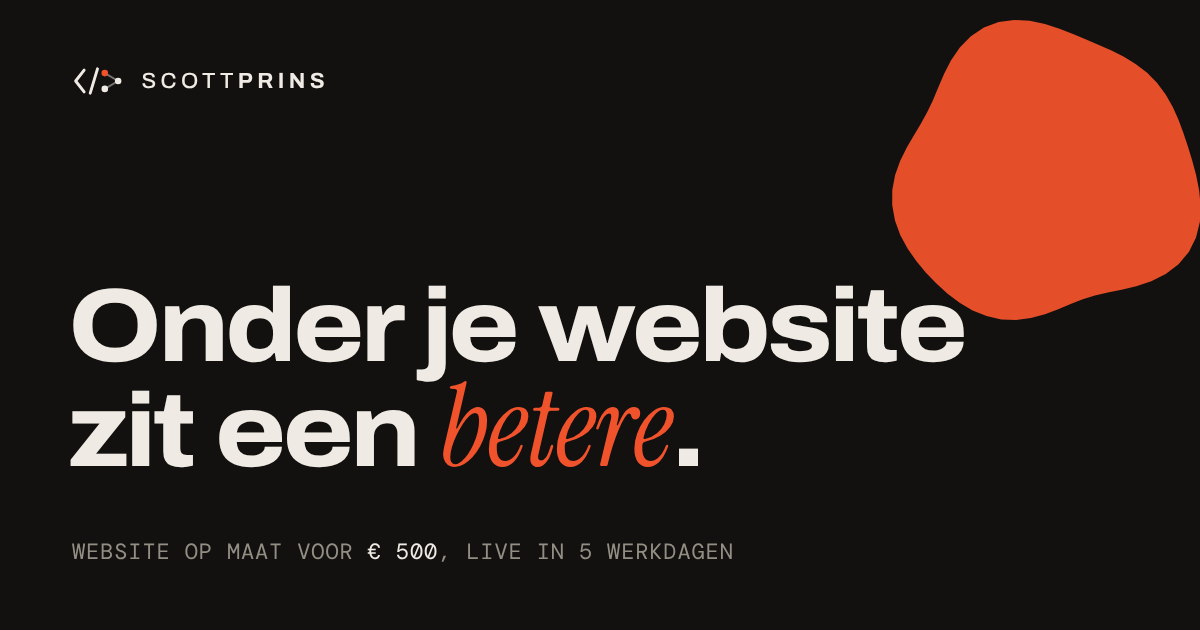
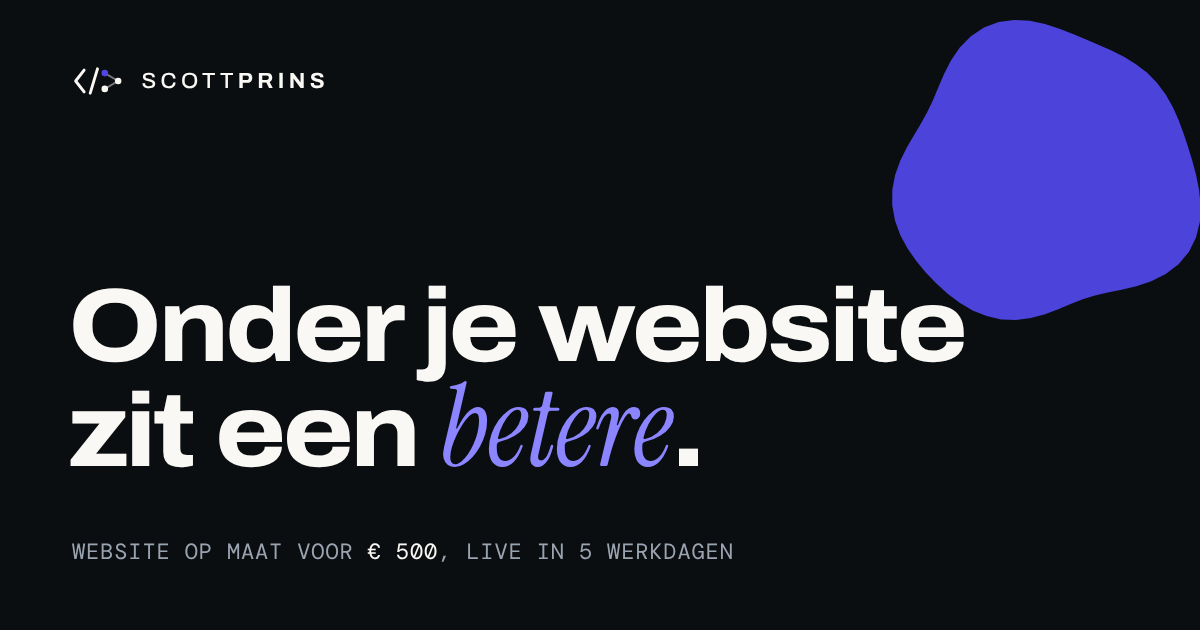
Indigo-huisstijl, grotere lens en feedback verwerkt
Kleuren
- Terug naar Scotts eigen inkt, crème en indigo (#4f46e5). Het indigo
  is het vlak van de knoppen (witte tekst); voor tekst, iconen en lijnen
  op donker een lichtere variant (#8b85ff) zodat alles AA-contrast haalt.
- Favicon (SP met indigo stip), theme-color en de deelafbeelding mee.
- De ouderwetse link in de kop-intro is nu hemelsblauw, zodat hij
  duidelijk verschilt van het nieuwe accent.

Feedback
- Lens in het upgrade-ding ruim 40% groter: je ziet meer van de nieuwe site.
- Geen € 50 per werkdag meer van de eindfactuur: weg uit werkwijze, FAQ
  en voorwaarden. Lukt de termijn onverhoopt niet, dan hoor je dat meteen,
  met een nieuwe datum.
- Overal 'excl. 21% btw', en bij de prijs ook het bedrag inclusief btw en
  'Alleen voor bedrijven'. Het tarief staat in offer.ts.

Fix
- Ankerlinks landden soms honderden pixels naast het doel: Lenis kon na
  native scrollen een oude positie onthouden. Het doel wordt nu vanaf de
  echte scrollpositie berekend en Lenis eerst gelijkgezet.

Gecontroleerd: astro check, 16 unittests, 20 pagina's op 5 breedtes
zonder fouten of overflow, axe zonder bevindingen, 51 interactietests
(3x op productie, 1x op de preview).

Claude-Session: https://claude.ai/code/session_01LvnRPykPphZFHqr8Md5cFC

diff --git a/src/data/content/nl.ts b/src/data/content/nl.ts
@@ -15,7 +15,8 @@ const PRIJS = eur(offer.price, 'nl');
 const DAGEN = offer.deliveryDays;
 const UUR = offer.responseHours;
 const PLUS = eur(offer.care[0].monthly, 'nl');
-const BOETE = eur(offer.latePenaltyPerDay, 'nl');
+const BTW = `${Math.round(offer.vatRate * 100)}% btw`;
+const PRIJS_INCL = eur(Math.round(offer.price * (1 + offer.vatRate)), 'nl');
 
 const meta = {
   title: `Website laten maken voor ${PRIJS} | Scott Prins`,
@@ -317,7 +318,7 @@ const price = {
     'Omdat ik niet elke site vanaf nul bouw. Ik werk met een eigen systeem van ontwerpen en animaties, en dat maak ik per klant op maat.',
     'En ik werk met moderne AI-tooling. Wat níet door AI gebeurt: nadenken over jouw zaak, keuzes maken en kwaliteit bewaken. Dat doe ik.',
   ],
-  terms: 'Prijs exclusief btw. De helft bij de start, de helft bij oplevering.',
+  terms: `Prijs exclusief ${BTW} (${PRIJS_INCL} inclusief). Alleen voor bedrijven. De helft bij de start, de helft bij oplevering.`,
   care: `Geen abonnement nodig. Wil je dat ik je site bijhoud? Dat kan vanaf ${PLUS} per maand, maandelijks opzegbaar.`,
   cta: `Claim je site voor ${PRIJS}`,
 } as const;
@@ -352,7 +353,7 @@ const process = {
       text: 'Je site staat online en je domein is gekoppeld. Pas dan betaal je de tweede helft.',
     },
   ],
-  note: `De ${DAGEN} werkdagen tellen vanaf het moment dat je materiaal binnen is. Sta je dan niet op tijd live, dan gaat er ${BOETE} per werkdag van de eindfactuur af.`,
+  note: `De ${DAGEN} werkdagen tellen vanaf het moment dat je materiaal binnen is: je teksten (of ons gesprek), foto’s en logo.`,
 } as const;
 
 const about = {
@@ -410,10 +411,6 @@ const faq = {
       a: `Binnen ${DAGEN} werkdagen, gerekend vanaf het moment dat jouw teksten (of ons gesprek), foto’s en logo binnen zijn.`,
     },
     {
-      q: `Wat als de site niet af is binnen ${DAGEN} werkdagen?`,
-      a: `Dan kost het mij geld, niet jou. De klok start zodra jouw materiaal binnen is. Sta je daarna niet binnen ${DAGEN} werkdagen live, dan gaat er ${BOETE} per werkdag van de eindfactuur af.`,
-    },
-    {
       q: 'Wat als ik het niet mooi vind?',
       a: `Daarom begin je met een gratis proefpagina. Bevalt die niet, dan stopt het daar en betaal je niets. Ga je door, dan heb je nog ${offer.revisionRounds} rondes om bij te sturen voordat de site live gaat.`,
     },
@@ -458,7 +455,7 @@ const order = {
     free: 'gratis',
     totalLabel: 'Nu te betalen',
     totalNote: 'Je betaalt pas na akkoord op je proefpagina.',
-    exVat: 'excl. btw',
+    exVat: `excl. ${BTW}`,
   },
   fields: {
     name: 'Je naam',

diff --git a/src/data/content/en.ts b/src/data/content/en.ts
@@ -19,7 +19,8 @@ const PRICE = eur(offer.price, 'en');
 const DAYS = offer.deliveryDays;
 const HOURS = offer.responseHours;
 const PLUS = eur(offer.care[0].monthly, 'en');
-const PENALTY = eur(offer.latePenaltyPerDay, 'en');
+const VAT = `${Math.round(offer.vatRate * 100)}% VAT`;
+const PRICE_INCL = eur(Math.round(offer.price * (1 + offer.vatRate)), 'en');
 
 const meta = {
   title: `A website for ${PRICE}, all in | Scott Prins`,
@@ -321,7 +322,7 @@ const price = {
     'Because I don’t build every site from scratch. I work with my own system of designs and animations, and tailor it to each client.',
     'And I work with modern AI tooling. What AI does not do: think about your business, make the calls and guard the quality. That’s me.',
   ],
-  terms: 'Price excludes VAT. Half at the start, half on delivery.',
+  terms: `Price excludes ${VAT} (${PRICE_INCL} including VAT). For businesses only. Half at the start, half on delivery.`,
   care: `No subscription needed. Want me to look after your site? From ${PLUS} a month, cancel any month.`,
   cta: `Claim your site for ${PRICE}`,
 };
@@ -356,7 +357,7 @@ const process = {
       text: 'Your site is online and your domain is connected. Only then do you pay the second half.',
     },
   ],
-  note: `The ${DAYS} working days count from the moment your material is in. Not live on time? Then ${PENALTY} per working day comes off the final invoice.`,
+  note: `The ${DAYS} working days count from the moment your material is in: your copy (or our call), photos and logo.`,
 };
 
 const about = {
@@ -414,10 +415,6 @@ const faq = {
       a: `Within ${DAYS} working days, counted from the moment your copy (or our call), photos and logo are in.`,
     },
     {
-      q: `What if the site isn’t finished within ${DAYS} working days?`,
-      a: `Then it costs me money, not you. The clock starts as soon as your material is in. If you’re not live within ${DAYS} working days after that, ${PENALTY} per working day comes off the final invoice.`,
-    },
-    {
       q: 'What if I don’t like it?',
       a: `That’s why you start with a free sample page. If you don’t like it, it ends there and you pay nothing. If you go ahead, you still have ${offer.revisionRounds} rounds to steer before the site goes live.`,
     },
@@ -462,7 +459,7 @@ const order = {
     free: 'free',
     totalLabel: 'Due now',
     totalNote: 'You only pay after approving your sample page.',
-    exVat: 'excl. VAT',
+    exVat: `excl. ${VAT}`,
   },
   fields: {
     name: 'Your name',

diff --git a/src/data/content/nl-legal.ts b/src/data/content/nl-legal.ts
@@ -10,7 +10,6 @@ import { eur } from '../../lib/format';
 
 const PRIJS = eur(offer.price, 'nl');
 const DAGEN = offer.deliveryDays;
-const BOETE = eur(offer.latePenaltyPerDay, 'nl');
 const PLUS = eur(offer.care[0].monthly, 'nl');
 const PREMIUM = eur(offer.care[1].monthly, 'nl');
 
@@ -84,7 +83,7 @@ const voorwaarden = {
     {
       title: 'Zo start een opdracht',
       body: [
-        'Mijn aanbod is voor zakelijke klanten: ondernemers, praktijken en verenigingen. Je vraagt via de bestelbon op deze site een gratis proefpagina aan, of we overleggen via mail, telefoon of WhatsApp. Bevalt de proefpagina, dan krijg je een bevestiging met de vaste prijs. Alle prijzen zijn exclusief btw.',
+        'Mijn aanbod is voor zakelijke klanten: ondernemers, praktijken en verenigingen. Je vraagt via de bestelbon op deze site een gratis proefpagina aan, of we overleggen via mail, telefoon of WhatsApp. Bevalt de proefpagina, dan krijg je een bevestiging met de vaste prijs. Alle prijzen zijn exclusief 21% btw.',
         'Die bevestiging is 30 dagen geldig. Zeg je schriftelijk ja (een mailtje of appje telt ook), dan is dat het startschot en gelden deze voorwaarden. Zeg je nee of hoor ik niets, dan betaal je niets, ook niet voor de proefpagina.',
       ],
     },
@@ -92,7 +91,7 @@ const voorwaarden = {
       title: `Wat je krijgt voor ${PRIJS}`,
       body: [
         'Een website op maat op één pagina: een eigen ontwerp met motion, gemaakt voor telefoon en desktop, een nette basis voor Google, teksten op basis van een gesprek, het koppelen van je domein, de livegang en hosting. Wat er precies op komt, staat in de bevestiging.',
-        `Je site staat binnen ${DAGEN} werkdagen live, gerekend vanaf het moment dat al jouw materiaal binnen is (teksten of ons gesprek, foto’s, logo en toegangen). Lukt dat door mij niet, dan gaat er ${BOETE} per werkdag van de eindfactuur af.`,
+        `Je site staat binnen ${DAGEN} werkdagen live, gerekend vanaf het moment dat al jouw materiaal binnen is (teksten of ons gesprek, foto’s, logo en toegangen). Lukt dat onverhoopt niet, dan hoor je dat meteen, met een nieuwe datum.`,
         `Vóór de livegang kijken we samen naar het resultaat. ${offer.revisionRounds} rondes aanpassingen horen bij de prijs. Daarna vallen wijzigingen onder onderhoud of onder meerwerk, en dat hoor je altijd vooraf, met een vaste prijs.`,
       ],
     },

diff --git a/src/data/content/en-legal.ts b/src/data/content/en-legal.ts
@@ -12,7 +12,6 @@ import { eur } from '../../lib/format';
 
 const PRICE = eur(offer.price, 'en');
 const DAYS = offer.deliveryDays;
-const PENALTY = eur(offer.latePenaltyPerDay, 'en');
 const PLUS = eur(offer.care[0].monthly, 'en');
 const PREMIUM = eur(offer.care[1].monthly, 'en');
 
@@ -86,7 +85,7 @@ const voorwaarden = {
     {
       title: 'How a project starts',
       body: [
-        'My offer is for business clients: business owners, practices and associations. You request a free sample page through the order slip on this site, or we talk by email, phone or WhatsApp. If you like the sample page, you get a confirmation with the fixed price. All prices exclude VAT.',
+        'My offer is for business clients: business owners, practices and associations. You request a free sample page through the order slip on this site, or we talk by email, phone or WhatsApp. If you like the sample page, you get a confirmation with the fixed price. All prices exclude 21% VAT.',
         'That confirmation is valid for 30 days. If you say yes in writing (an email or a message counts), that is the starting signal and these terms apply. If you say no or I don’t hear back, you pay nothing, not even for the sample page.',
       ],
     },
@@ -94,7 +93,7 @@ const voorwaarden = {
       title: `What you get for ${PRICE}`,
       body: [
         'A custom website on one page: an original design with motion, made for phone and desktop, a clean foundation for Google, copy based on a conversation, connecting your domain, the launch and hosting. Exactly what goes on it is set out in the confirmation.',
-        `Your site is live within ${DAYS} working days, counted from the moment all your material is in (copy or our call, photos, logo and access). If I don’t make that, ${PENALTY} per working day comes off the final invoice.`,
+        `Your site is live within ${DAYS} working days, counted from the moment all your material is in (copy or our call, photos, logo and access). If that unexpectedly doesn’t work out, you hear about it straight away, with a new date.`,
         `Before launch we look at the result together. ${offer.revisionRounds} rounds of changes are included in the price. After that, changes fall under maintenance or extra work, and you always hear the fixed price up front.`,
       ],
     },

diff --git a/src/styles/global.css b/src/styles/global.css
@@ -60,25 +60,25 @@
   --font-serif: 'Instrument Serif', ui-serif, Georgia, 'Times New Roman', serif;
   --font-mono: 'DM Mono', ui-monospace, SFMono-Regular, Menlo, Consolas, monospace;
 
-  /* Warm, niet puur zwart of wit, met één signaalkleur.
+  /* Scotts huisstijl: inkt, crème en indigo. Niet puur zwart of wit.
      signal      = het vlak van de hoofdknop (met signal-ink als tekst)
      signal-text = accent als tekst, icoon of lijn op donker (AA-contrast)
      Andere accentkleur? Alleen deze vier regels; zie README. */
-  --color-ink: #12110f;
-  --color-ink-2: #1b1a17;
-  --color-ink-3: #282622;
-  --color-bone: #efebe4;
-  --color-bone-2: #cec8bd;
-  --color-mute: #938e84;
-  --color-signal: #f0532c;
-  --color-signal-hi: #ff6b46;
-  --color-signal-text: #ff6b46;
-  --color-signal-ink: #12110f;
-  --color-paper: #f5f1ea;
-  --color-paper-ink: #1d1b18;
-  --color-paper-mute: #6d685f;
-  --color-line: rgb(239 235 228 / 0.12);
-  --color-line-strong: rgb(239 235 228 / 0.26);
+  --color-ink: #0b0e11;
+  --color-ink-2: #161b22;
+  --color-ink-3: #1f2630;
+  --color-bone: #faf8f4;
+  --color-bone-2: #c3c9d2;
+  --color-mute: #9aa3b0;
+  --color-signal: #4f46e5;
+  --color-signal-hi: #4338ca;
+  --color-signal-text: #8b85ff;
+  --color-signal-ink: #ffffff;
+  --color-paper: #faf8f4;
+  --color-paper-ink: #0b0e11;
+  --color-paper-mute: #5c6470;
+  --color-line: rgb(250 248 244 / 0.12);
+  --color-line-strong: rgb(250 248 244 / 0.26);
 
   --ease-out-expo: cubic-bezier(0.16, 1, 0.3, 1);
   --ease-out-quart: cubic-bezier(0.25, 1, 0.5, 1);

diff --git a/src/scripts/motion/core.ts b/src/scripts/motion/core.ts
@@ -38,10 +38,20 @@ export function smoothScroll(): Lenis | null {
 export const getLenis = (): Lenis | null => lenis;
 
 /** Scrolt naar een element, met of zonder Lenis. De ruimte voor de
-    navigatie komt uit scroll-margin-top (global.css); Lenis leest die zelf. */
+    navigatie komt uit scroll-margin-top (global.css).
+    Het doel rekenen we zelf uit vanaf de échte scrollpositie, en Lenis
+    zetten we daar eerst op gelijk: na native scrollen (toetsenbord, zoeken
+    in de pagina) kan Lenis nog een oude positie onthouden hebben, en dan
+    landde de sprong honderden pixels ernaast. */
 export function scrollToEl(el: HTMLElement): void {
-  if (lenis) lenis.scrollTo(el, { duration: 1.25 });
-  else el.scrollIntoView({ behavior: reducedMotion() ? 'auto' : 'smooth', block: 'start' });
+  const margin = Number.parseFloat(getComputedStyle(el).scrollMarginTop) || 0;
+  const y = Math.max(0, el.getBoundingClientRect().top + window.scrollY - margin);
+  if (lenis) {
+    lenis.scrollTo(window.scrollY, { immediate: true, force: true });
+    lenis.scrollTo(y, { duration: 1.25, force: true });
+  } else {
+    window.scrollTo({ top: y, behavior: reducedMotion() ? 'auto' : 'smooth' });
+  }
 }
 
 /** Interne hashlinks: soepel scrollen én focus meeverhuizen. */

diff --git a/src/data/offer.ts b/src/data/offer.ts
@@ -2,7 +2,7 @@
  * Het aanbod in getallen. Eén bron: de prijs op de pagina, de bestelbon,
  * de structured data en de mails lezen allemaal hieruit.
  *
- * Prijzen zijn exclusief btw (zakelijke klanten).
+ * Prijzen zijn exclusief 21% btw; het aanbod is alleen voor bedrijven.
  */
 export const offer = {
   /** Een complete website, eenmalig. */
@@ -15,8 +15,8 @@ export const offer = {
   deliveryDays: 5,
   /** Reactietijd op een aanvraag, en de termijn voor de gratis proefpagina. */
   responseHours: 48,
-  /** Afslag per werkdag te laat, van de eindfactuur (zie FAQ). */
-  latePenaltyPerDay: 50,
+  /** Btw-tarief; alle prijzen op de site zijn exclusief. */
+  vatRate: 0.21,
   /** Optioneel onderhoud per maand; maandelijks opzegbaar. */
   care: [
     { id: 'plus', monthly: 19 },

diff --git a/src/scripts/upgrade.ts b/src/scripts/upgrade.ts
@@ -86,7 +86,7 @@ export function initUpgrade(root: HTMLElement): void {
     H = stage!.clientHeight;
     const virtueel = root.clientWidth < 640 ? 390 : 1280;
     stage!.style.setProperty('--s-js', String(W / virtueel));
-    lensR = Math.max(58, Math.min(W, H) * 0.17);
+    lensR = Math.max(80, Math.min(W, H) * 0.24);
     /* Vanaf elk punt ligt de verste hoek binnen de diagonaal; de marge
        vangt de golven op, zodat er aan de rand niets van de oude site
        doorschemert. */

diff --git a/README.md b/README.md
@@ -52,13 +52,13 @@ src/
 Het logo is Scotts eigen `</>`-merk (`src/components/Logo.astro`); het accentbolletje volgt de accentkleur. Alle kleuren staan als tokens bovenaan `src/styles/global.css`. Een andere accentkleur zijn vier regels:
 
 ```css
---color-signal: #f0532c;      /* vlak van de hoofdknop */
---color-signal-hi: #ff6b46;   /* hover van dat vlak */
---color-signal-text: #ff6b46; /* accent als tekst/icoon op donker (AA-contrast) */
---color-signal-ink: #12110f;  /* tekst op het vlak */
+--color-signal: #4f46e5;      /* vlak van de hoofdknop */
+--color-signal-hi: #4338ca;   /* hover van dat vlak */
+--color-signal-text: #8b85ff; /* accent als tekst/icoon op donker (AA-contrast) */
+--color-signal-ink: #ffffff;  /* tekst op het vlak */
 ```
 
-Terug naar de vorige indigo-huisstijl: `#4f46e5` / `#4338ca` / `#8b85ff` / `#ffffff`, en voor de koele inkt en crème `--color-ink: #0b0e11`, `--color-ink-2: #161b22`, `--color-ink-3: #1f2630`, `--color-bone: #faf8f4`, `--color-bone-2: #c3c9d2`, `--color-mute: #9aa3b0`, `--color-paper: #faf8f4`, `--color-paper-ink: #0b0e11`, `--color-paper-mute: #5c6470`. Pas dan ook `theme-color` in `Base.astro` en de kleuren in `public/favicon.svg` aan.
+De warme variant (rood-oranje op warme inkt) die eerder is uitgeprobeerd: `#f0532c` / `#ff6b46` / `#ff6b46` / `#12110f`, met `--color-ink: #12110f`, `--color-ink-2: #1b1a17`, `--color-ink-3: #282622`, `--color-bone: #efebe4`, `--color-bone-2: #cec8bd`, `--color-mute: #938e84`, `--color-paper: #f5f1ea`, `--color-paper-ink: #1d1b18`, `--color-paper-mute: #6d685f`. Pas dan ook `theme-color` in `Base.astro` en de kleuren in `public/favicon.svg` aan.
 
 ## Prijs of termijn aanpassen
 
